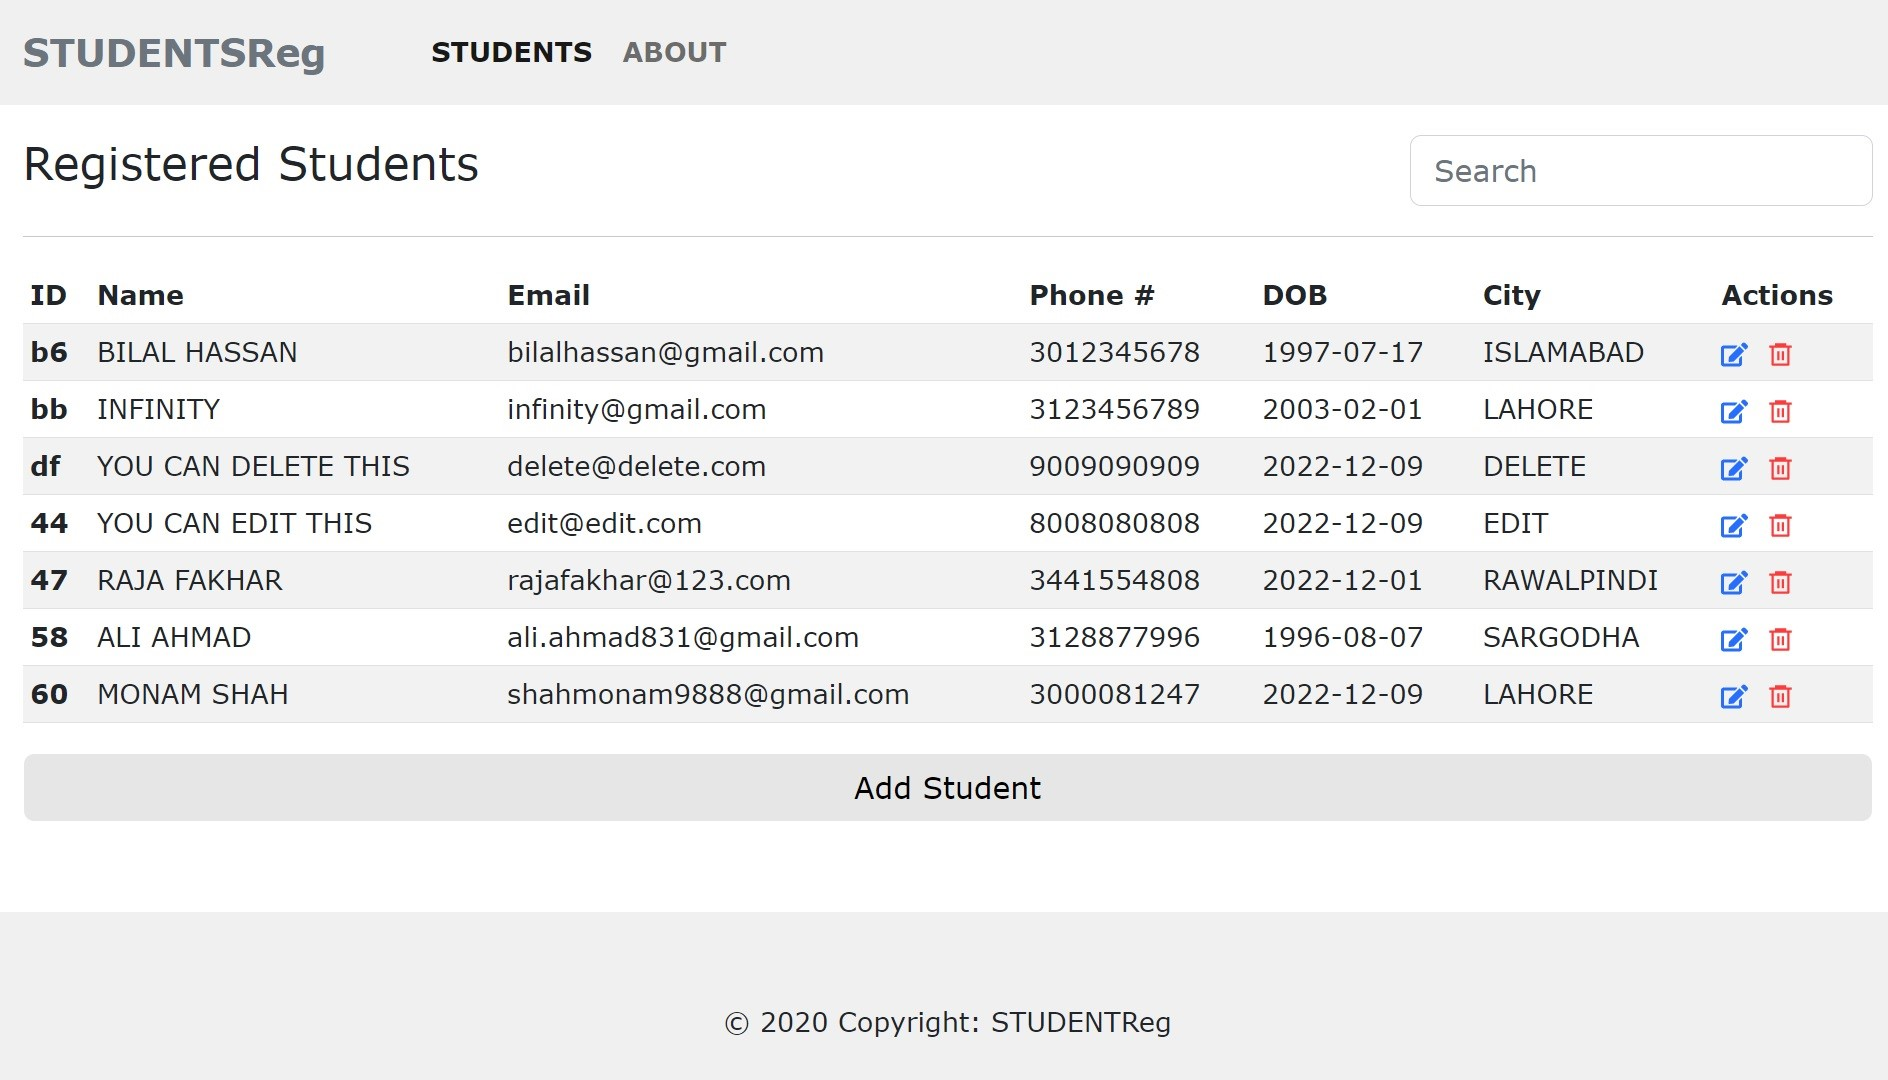
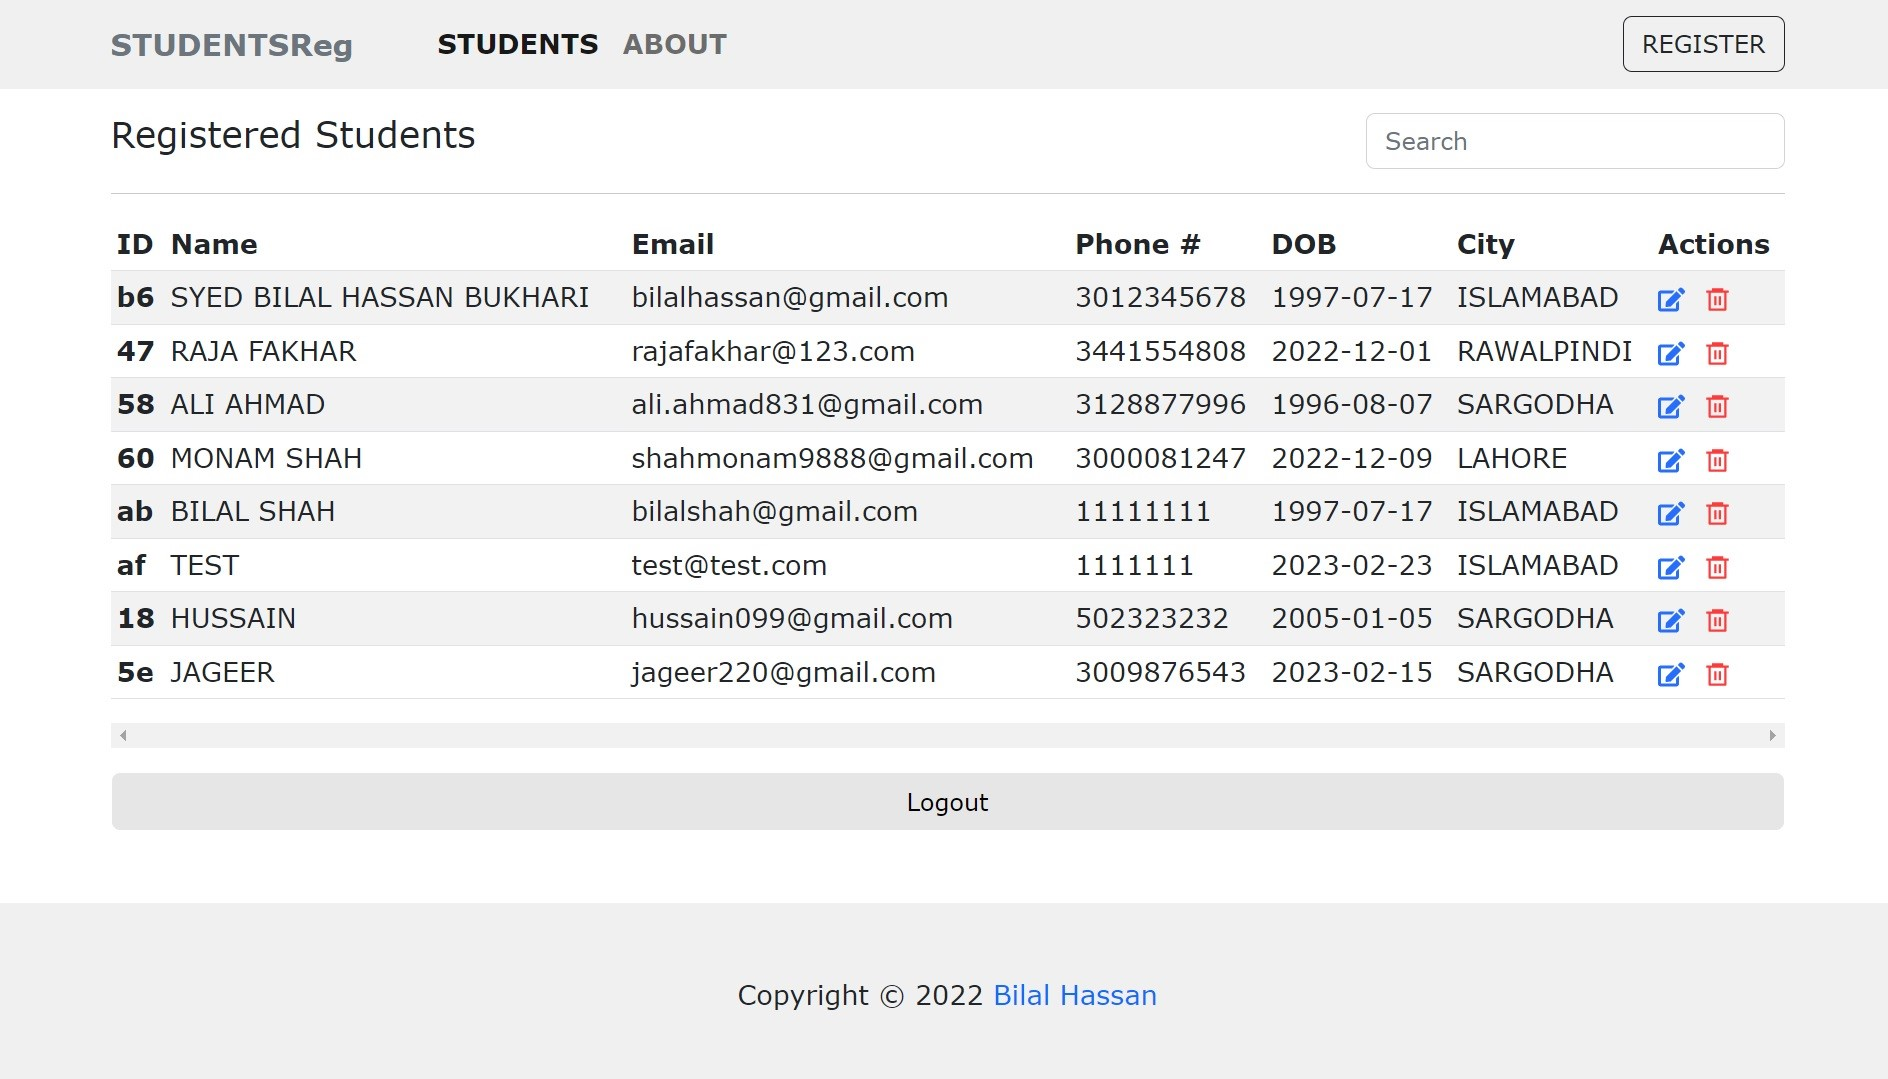
updated projects

diff --git a/src/components/MyProjects.js b/src/components/MyProjects.js
@@ -16,7 +16,7 @@ function MyProjects() {
     {
       name: "StudentsREG App",
       description:
-        "A FULL STACK responsive web application, stores unique users data, performs all CRUD operations",
+        "A FULL STACK responsive web application, logs in and stores unique users data, performs all CRUD operations",
       image: "images/studentReg.jpg",
       tools: "ReactJS, NodeJS, ExpressJS, MongoDB, Bootstrap",
       projectUrl: "https://studentsreg.netlify.app/",
